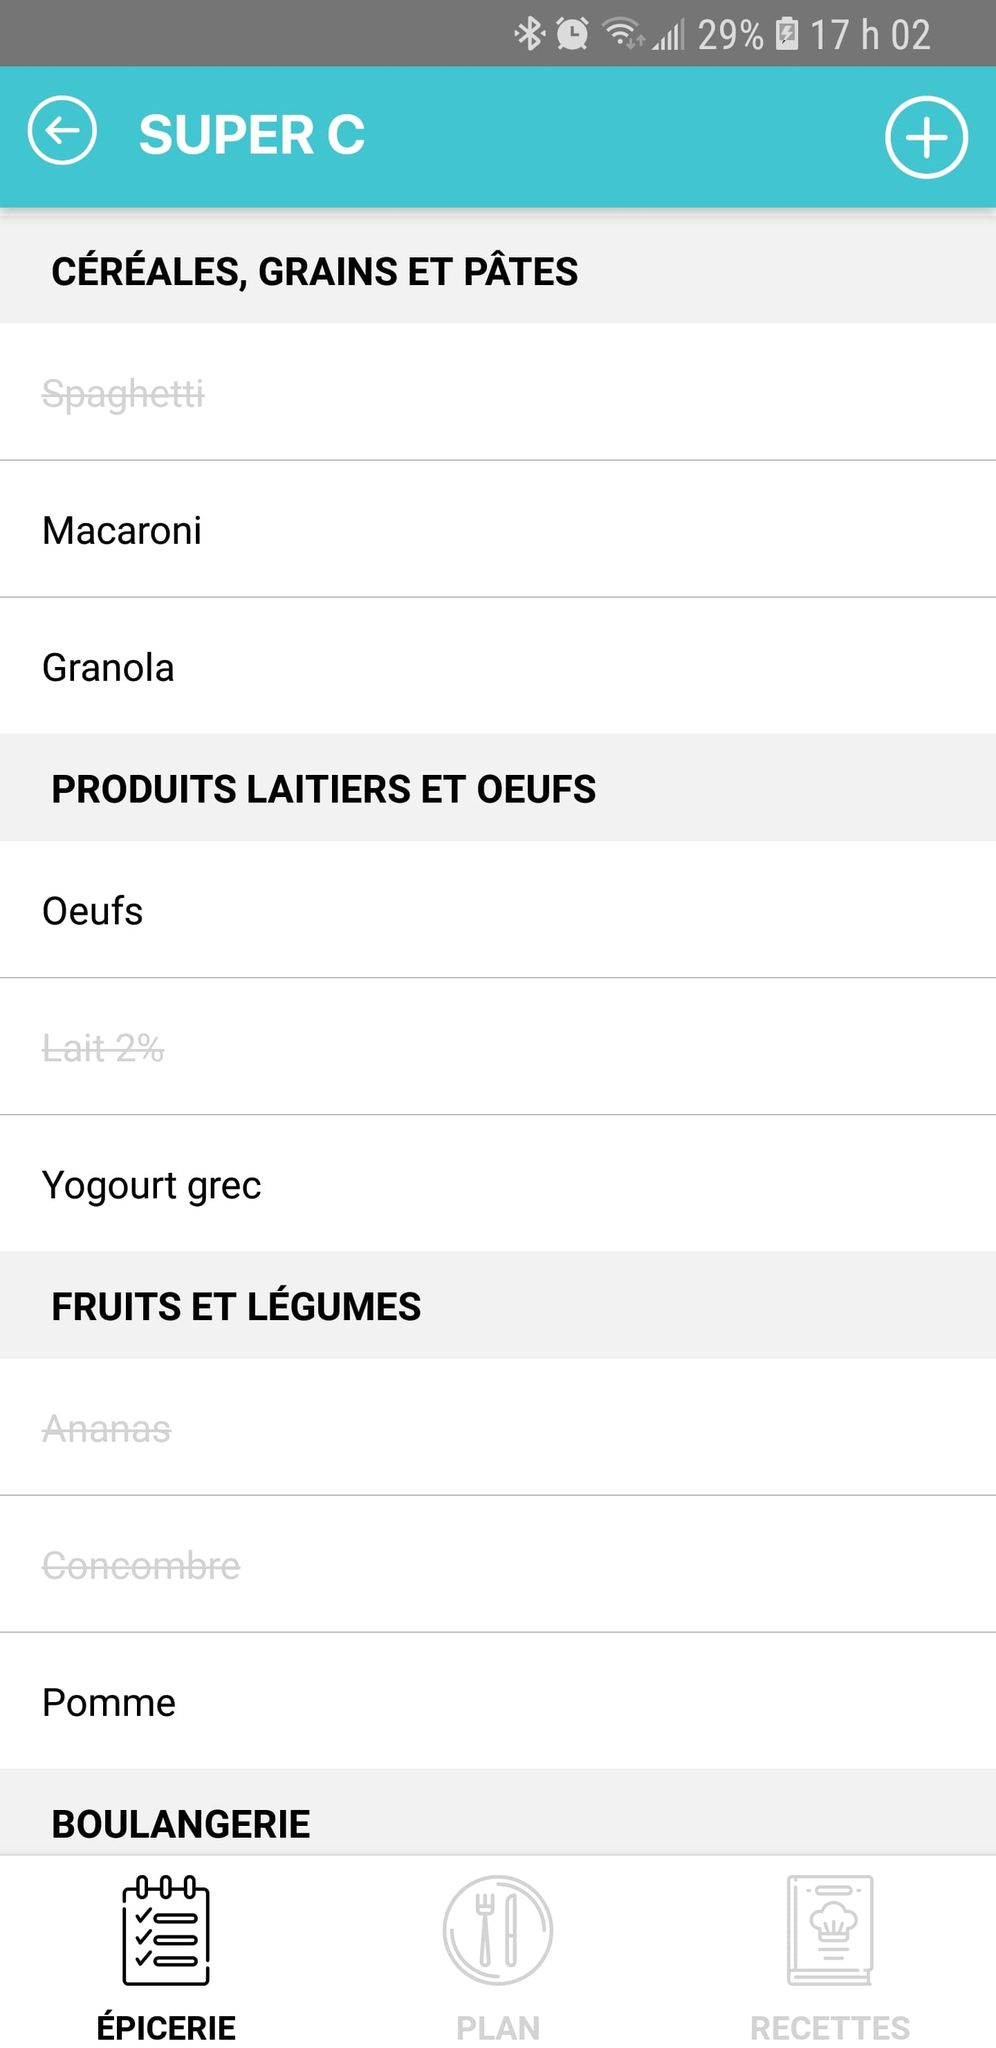
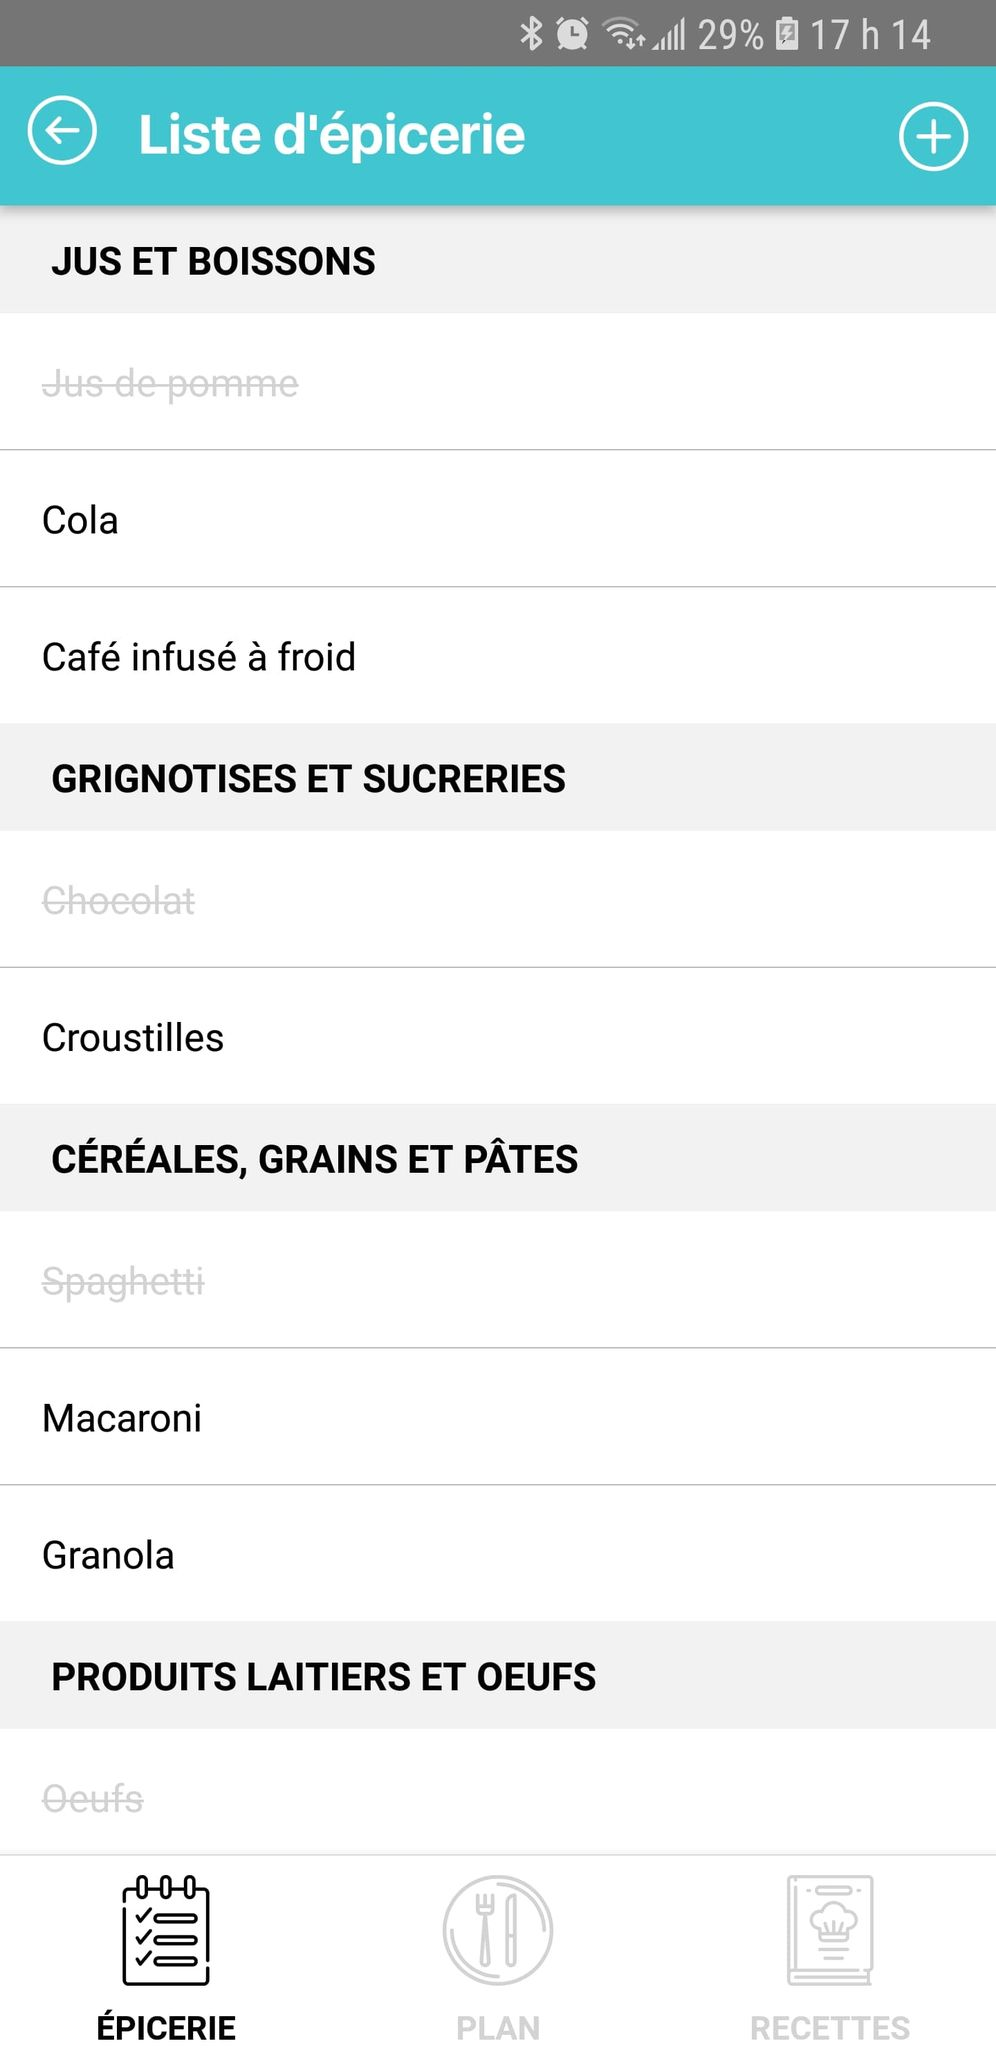
Update grocery list image

diff --git a/frontend/src/app/Components/Grocery/GroceryItemsScreen/GroceryItemsScreen.js b/frontend/src/app/Components/Grocery/GroceryItemsScreen/GroceryItemsScreen.js
@@ -93,15 +93,15 @@ const GroceryItemsScreen = ({route, navigation}) => {
                 <Icon name="arrow-left-circle" size={25} color="#FFF" />
               </TouchableOpacity>
               <Text style={styles.headerTitle}>
-                {groceryList.name.toUpperCase()}
+                {groceryList.name}
               </Text>
             </View>
             <TouchableOpacity onPress={() => setModalVisible(true)}>
-              <Icon name="plus" size={30} color="#FFF" />
+              <Icon name="plus" size={25} color="#FFF" />
             </TouchableOpacity>
           </View>
           <View style={styles.listContainer}>
-            {groceryList.categories.length == 0 ? (
+            {groceryList.categories.length == 1 ? (
               <View
                 style={{
                   alignSelf: 'center',
@@ -208,6 +208,7 @@ const styles = StyleSheet.create({
     flex: 1,
   },
   screenHeader: {
+    alignItems: 'center',
     flexDirection: 'row',
     padding: 10,
     backgroundColor: headerColor,
